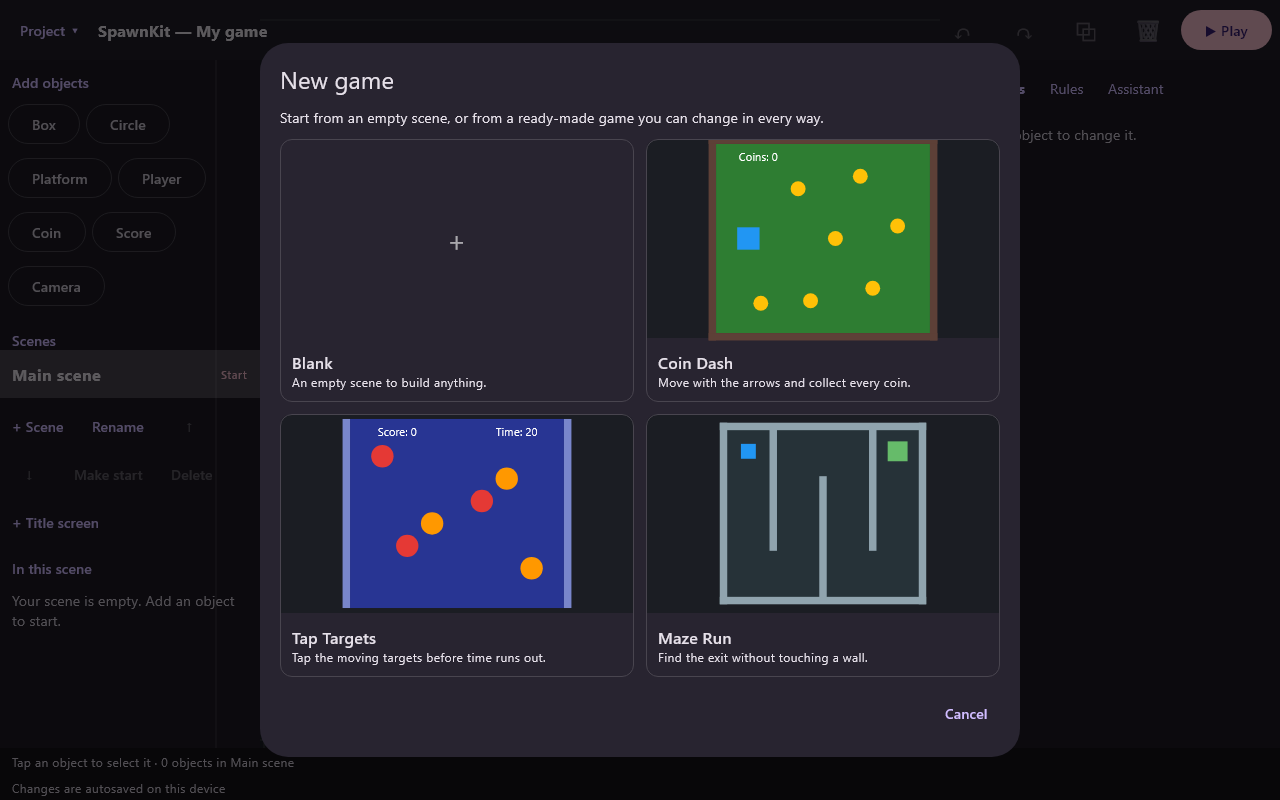
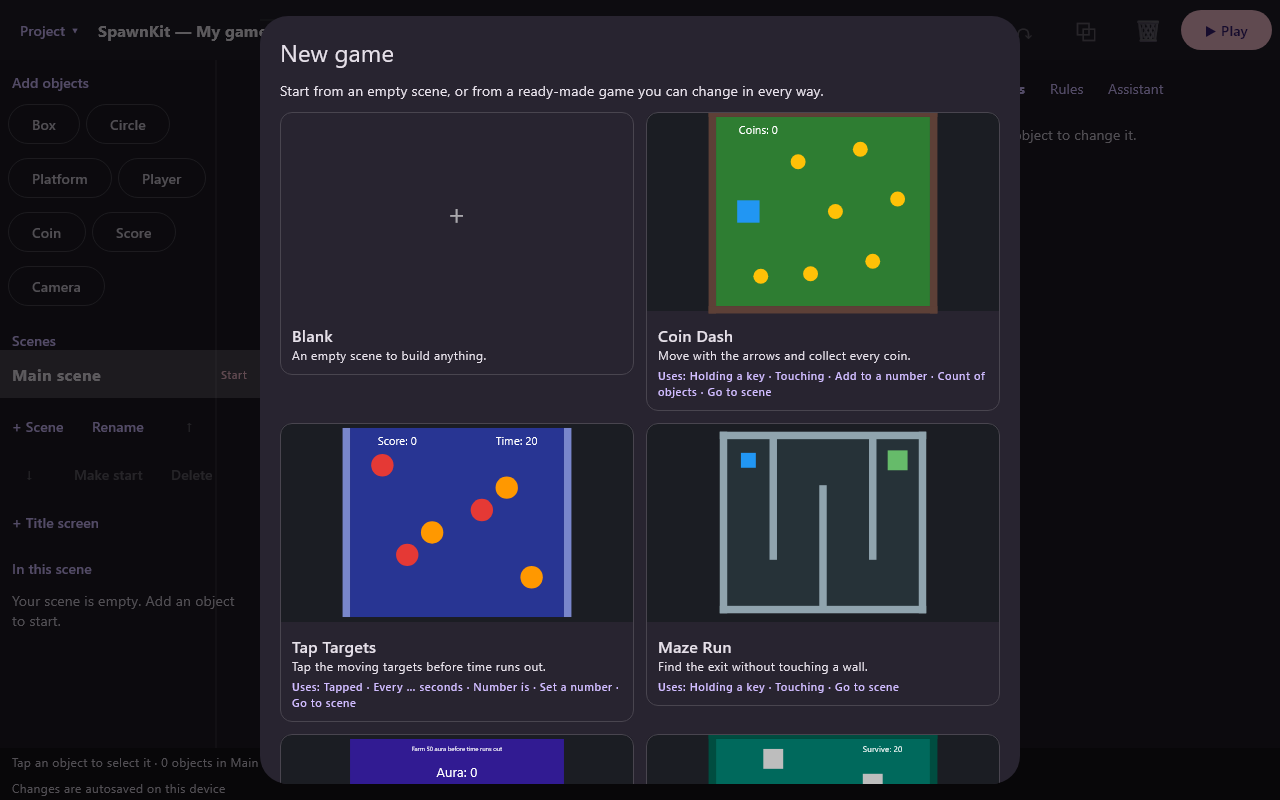
docs: brain-rot presets evidence; give Node tests 30 s (C10b)
Mocha's 2 s default failed the 20-second Tap Targets play test on JS
whenever the machine was busy; Node test runs now allow 30 s per test.
Emulator smoke for Aura Farmer, picker screenshots and docs.

diff --git a/app/shared/test@jvm/dev/spawnkit/app/presets/PresetRecipes.kt b/app/shared/test@jvm/dev/spawnkit/app/presets/PresetRecipes.kt
@@ -210,7 +210,10 @@ internal object PresetRecipes {
             set(timer, "graphics:text", "size", 0.6)
             rule(
                 timer,
-                Rule(Condition.EverySeconds(1), actions = listOf(Action.ChangeNumber(Target.Self, -1), Action.ShowNumber(Target.Self, "Time: "))),
+                Rule(
+                    Condition.EverySeconds(1),
+                    actions = listOf(Action.ChangeNumber(Target.Self, -1), Action.ShowNumber(Target.Self, "Time: ")),
+                ),
             )
 
             val max = endScene("MAX AURA", "MAX AURA!", "Main character energy unlocked.", "Farm again", farm, 0xFFAD1457)
@@ -264,8 +267,12 @@ internal object PresetRecipes {
             set(hero, "graphics:shape", "height", 0.7)
             set(hero, "graphics:shape", "color", 0xFFFFD600)
             keyMoves.forEach { (key, direction) -> rule(hero, Rule(Condition.KeyHeld(key), actions = listOf(Action.Move(direction, 4.0)))) }
-            listOf("edge-left" to Direction.Right, "edge-right" to Direction.Left, "edge-top" to Direction.Down, "edge-bottom" to Direction.Up)
-                .forEach { (edge, back) -> rule(hero, Rule(Condition.Touching(edge), actions = listOf(Action.Move(back, 4.0)))) }
+            listOf(
+                "edge-left" to Direction.Right,
+                "edge-right" to Direction.Left,
+                "edge-top" to Direction.Down,
+                "edge-bottom" to Direction.Up,
+            ).forEach { (edge, back) -> rule(hero, Rule(Condition.Touching(edge), actions = listOf(Action.Move(back, 4.0)))) }
 
             npc("Lane NPC 1", 2.0, -2.0, 3.0, horizontal = true, direction = 1)
             npc("Lane NPC 2", 3.0, 0.0, 3.5, horizontal = true, direction = 0)
@@ -428,7 +435,6 @@ private class Recipe(
         return copy
     }
 
-    /** A target that bounces between the side walls; its number is its direction (0 right, 1 left). Tapping scores. */
     /**
      * An NPC that bounces between the edges, along its row when [horizontal] or its column otherwise. Its number is its
      * direction: 0 is right or down, 1 is left or up.
@@ -453,6 +459,7 @@ private class Recipe(
         return id
     }
 
+    /** A target that bounces between the side walls; its number is its direction (0 right, 1 left). Tapping scores. */
     fun target(
         name: String,
         x: Double,

diff --git a/build-logic/convention/src/main/kotlin/KmpTargets.kt b/build-logic/convention/src/main/kotlin/KmpTargets.kt
@@ -21,14 +21,15 @@ internal fun Project.configureSpawnkitTargets(
     kmp.jvm()
     kmp.iosArm64()
     kmp.iosSimulatorArm64()
+    // Headless play tests simulate tens of seconds of game time; Mocha's 2 s default fails them on a busy machine.
     kmp.js {
         browser()
-        if (nodeTests) nodejs()
+        if (nodeTests) nodejs { testTask { useMocha { timeout = NODE_TEST_TIMEOUT } } }
     }
     @OptIn(ExperimentalWasmDsl::class)
     kmp.wasmJs {
         browser()
-        if (nodeTests) nodejs()
+        if (nodeTests) nodejs { testTask { useMocha { timeout = NODE_TEST_TIMEOUT } } }
     }
     if (nativeDesktop) {
         kmp.mingwX64()
@@ -47,3 +48,6 @@ internal fun Project.configureSpawnkitTargets(
         implementation(libs.findLibrary("kotlin-test").get())
     }
 }
+
+/** Per-test limit for Node.js test runs (Mocha). */
+private const val NODE_TEST_TIMEOUT = "30s"

diff --git a/tools/android-brainrot-smoke.py b/tools/android-brainrot-smoke.py
@@ -1,0 +1,156 @@
+"""Drives the SpawnKit builder on a running Android emulator with real taps (C10b): opens Project -> New game...,
+picks Aura Farmer, plays from its title screen, opens How it works and comes back, starts the game and taps the Aura
+Toaster. Checks each step by the colours on screen, since game text is drawn on the canvas.
+Usage: install the debug APK, then `python tools/android-brainrot-smoke.py <screenshot-dir>`. Needs Pillow."""
+import io
+import os
+import re
+import subprocess
+import sys
+import time
+import xml.etree.ElementTree as ET
+
+from PIL import Image
+
+ADB = os.path.join(os.environ["LOCALAPPDATA"], "Android", "Sdk", "platform-tools", "adb.exe")
+OUT = sys.argv[1]
+BUTTON = (0x43, 0xA0, 0x47)  # the title screen's Play button
+PLAYER = (0x21, 0x96, 0xF3)  # the Player preset
+HOW = (0x54, 0x6E, 0x7A)  # How it works and Back buttons
+EXPLAIN = (0x21, 0x21, 0x21)  # How it works background
+TOASTER = (0xFF, 0x70, 0x43)  # the Aura Toaster
+
+
+def adb(*args, binary=False):
+    result = subprocess.run([ADB, *args], capture_output=True, check=True)
+    return result.stdout if binary else result.stdout.decode("utf-8", "replace")
+
+
+def nodes():
+    found = []
+    for _ in range(8):
+        try:
+            adb("shell", "uiautomator", "dump", "/sdcard/ui.xml")
+            root = ET.fromstring(adb("exec-out", "cat", "/sdcard/ui.xml"))
+        except (ET.ParseError, subprocess.CalledProcessError):
+            # The app is still starting or animating; the dump is not ready yet.
+            time.sleep(1)
+            continue
+        found = []
+        for node in root.iter("node"):
+            bounds = re.fullmatch(r"\[(\d+),(\d+)\]\[(\d+),(\d+)\]", node.get("bounds", ""))
+            if bounds:
+                x1, y1, x2, y2 = map(int, bounds.groups())
+                found.append((node.get("text", ""), node.get("content-desc", ""), (x1 + x2) // 2, (y1 + y2) // 2, y1))
+        if any(text or desc for text, desc, *_ in found):
+            return found
+        time.sleep(0.3)
+    return found
+
+
+def find(label, nth=0, exact=True, below=0):
+    matches = [n for n in nodes() if n[4] >= below and ((n[0] == label or n[1] == label) if exact else (label in n[0] or label in n[1]))]
+    return matches[nth] if len(matches) > nth else None
+
+
+def tap(label, nth=0, exact=True, scroll=True, below=0):
+    for _ in range(8):
+        node = find(label, nth, exact, below)
+        if node:
+            adb("shell", "input", "tap", str(node[2]), str(node[3]))
+            time.sleep(0.8)
+            print("tap", label, node[2], node[3], flush=True)
+            return
+        if not scroll:
+            break
+        adb("shell", "input", "swipe", "540", "2250", "540", "1950", "300")
+        time.sleep(0.6)
+    raise SystemExit(f"Could not find '{label}'")
+
+
+def wait_for(text, seconds=30):
+    deadline = time.time() + seconds
+    while time.time() < deadline:
+        if find(text, exact=False):
+            return
+        time.sleep(1)
+    raise SystemExit(f"'{text}' did not appear")
+
+
+def screenshot(name):
+    data = adb("exec-out", "screencap", "-p", binary=True)
+    with open(os.path.join(OUT, name), "wb") as f:
+        f.write(data)
+    print("screenshot", name, flush=True)
+
+
+def pixels_like(name, color, tolerance=12):
+    """Centre of the pixels close to [color] in screenshot [name], and how many there are."""
+    image = Image.open(os.path.join(OUT, name)).convert("RGB")
+    width, height = image.size
+    xs, ys = [], []
+    data = image.load()
+    for y in range(0, height, 4):
+        for x in range(0, width, 4):
+            r, g, b = data[x, y]
+            if abs(r - color[0]) <= tolerance and abs(g - color[1]) <= tolerance and abs(b - color[2]) <= tolerance:
+                xs.append(x)
+                ys.append(y)
+    if not xs:
+        return None, 0
+    return (sum(xs) // len(xs), sum(ys) // len(ys)), len(xs)
+
+
+
+
+def tap_colour(name, colour, what):
+    centre, _ = pixels_like(name, colour)
+    if centre is None:
+        raise SystemExit(f"{what} is not on screen")
+    adb("shell", "input", "tap", str(centre[0]), str(centre[1]))
+    time.sleep(1.5)
+    return centre
+
+
+adb("shell", "am", "force-stop", "dev.spawnkit")
+adb("shell", "monkey", "-p", "dev.spawnkit", "-c", "android.intent.category.LAUNCHER", "1")
+for _ in range(15):
+    start_new = find("Start new", exact=False)
+    if start_new:
+        adb("shell", "input", "tap", str(start_new[2]), str(start_new[3]))
+        time.sleep(1)
+        print("tap Start new", flush=True)
+        break
+    if find("Score"):
+        break
+    time.sleep(1)
+else:
+    raise SystemExit("The builder did not finish opening")
+
+tap("Project", scroll=False)
+tap("New game\u2026", scroll=False)
+wait_for("Maze Run")
+time.sleep(1)
+tap("Aura Farmer")
+wait_for("Aura Farmer")
+time.sleep(1)
+tap("Play", exact=False, scroll=False)
+time.sleep(1.5)
+screenshot("android-aura-title.png")
+tap_colour("android-aura-title.png", HOW, "The How it works button")
+screenshot("android-aura-how.png")
+_, dark = pixels_like("android-aura-how.png", EXPLAIN)
+if dark < 1000:
+    raise SystemExit("How it works did not open")
+tap_colour("android-aura-how.png", HOW, "The Back button")
+screenshot("android-aura-back.png")
+tap_colour("android-aura-back.png", BUTTON, "The title's Play button")
+screenshot("android-aura-farm.png")
+toaster, _ = pixels_like("android-aura-farm.png", TOASTER)
+if toaster is None:
+    raise SystemExit("Play did not open the farm")
+for _ in range(12):
+    adb("shell", "input", "tap", str(toaster[0]), str(toaster[1]))
+time.sleep(0.5)
+screenshot("android-aura-tapped.png")
+print("OK: Aura Farmer opened from New game, explained itself, and the toaster took taps")

diff --git a/docs/project-persistence.md b/docs/project-persistence.md
@@ -19,17 +19,26 @@ have accessible descriptions. Some Android document providers append `.json` to 
 
 ### Preset games (C10)
 
-The picker lists Blank and three preset games, each with a picture of its game scene and a one-line pitch. Phones
-show one column; wider screens show two.
+The picker lists Blank and five preset games. Each has a picture of its game scene, a one-line pitch and the rule
+blocks it uses ("Uses: Tapped · Every … seconds · …", named as in the rule editor). Phones show one column; wider
+screens show two.
 
 | Preset | Game | Uses |
 |---|---|---|
 | Coin Dash | Move with the arrows and collect every coin; the last coin leads to "You win". | Key held, Touching, Count is |
 | Tap Targets | Tap the moving targets before the 20-second timer runs out. | Tapped, Every second, Number is |
 | Maze Run | Reach the exit; touching a wall restarts the maze. | Key held, Touching, Go to scene |
+| Aura Farmer (C10b) | Tap the Aura Toaster to farm 50 aura in 15 seconds: MAX AURA, or Negative aura. | Tapped, Add to a number, Number is, Every second |
+| NPC Dodge (C10b) | Survive 20 seconds while NPCs bounce along lanes and columns, or "You got NPC'd". | Key held, Touching, Number is, Set a number |
 
 - **Ordinary projects.** Each preset is a normal project file in `presets/<id>/project.json` with a title screen. It
   is embedded into the app by `core/presets` (`EmbeddedPresets`, listed by `GamePresets`).
+- **Guidance (C10b).** Every title screen has a **How it works** button. It opens a scene that explains, in short
+  lines, which object has which rule. The scene ends with one "Try this" change in yellow and a Back button to the
+  title. A test checks that every block a picker card lists is really used by that preset.
+- **Original characters.** Aura Farmer and NPC Dodge are brain-rot style on purpose: loud colours and meme-style
+  text. Their characters are original, with no third-party meme characters, because the contest requires work the
+  entrant owns.
 - **How they were made.** With the builder's own calls: palette presets, catalog operations, rule operations and
   "Add title screen". The recipes are in `app/shared/test@jvm/.../presets/PresetRecipes.kt`, and a test checks the
   files against them ([presets/README.md](../presets/README.md)).
@@ -45,6 +54,11 @@ show one column; wider screens show two.
   `tools/android-preset-smoke.py` used real taps: [the picker](media/android-presets-picker.png), then
   [Coin Dash's title screen playing](media/android-presets-title-play.png). Holding the on-screen Right arrow then
   [collected a coin](media/android-presets-coin.png).
+- **Evidence for C10b.**
+  - [Phone picker with all five presets](media/presets-picker-phone.png).
+  - `tools/android-brainrot-smoke.py` used real taps on the emulator. It opened Aura Farmer from New game, then
+    [How it works](media/android-aura-how.png) and Back.
+  - Twelve taps on the toaster then showed [Aura: 12](media/android-aura-tapped.png).
 
 New and Open ask before replacing unsaved changes. Save and continue, Discard changes, and Cancel are explicit.
 Cancelling a picker, opening a bad file, and a failed write keep the current project and its undo history. Opening a

diff --git a/PROGRESS.md b/PROGRESS.md
@@ -1,6 +1,28 @@
 # SpawnKit progress
 
-## Current checkpoint — live session recorder (2026-11-22)
+## Current checkpoint — C10b brain-rot presets and guidance (2026-11-22)
+
+- **Branch.** `feat/84-brainrot-presets` from `main`. Plan:
+  [C10b](docs/plans/2026-11-22-c10b-brainrot-presets.md).
+  [Issue #84](https://github.com/aioanei/spawnkit/issues/84). Owner: the templates show judges what the app can do
+  and guide users.
+- **Added.**
+  - **Aura Farmer:** a tap-fast clicker against a 15-second timer.
+  - **NPC Dodge:** survive 20 seconds while NPCs bounce along lanes and columns.
+  - Both use original characters. Each has a title, How it works, win and lose scenes.
+  - **Guidance in all five presets:** a How it works scene from every title (rules in short lines, one "Try this",
+    Back), and "Uses:" on each picker card listing the rule blocks the preset uses.
+- **Evidence.**
+  - `PresetGamesTest` 14, on every core target:
+    - scripted players win both new games, and idle players lose them;
+    - every How it works scene opens and returns;
+    - every listed block is used.
+  - `NewGamePickerTest` checks the Uses lines on phone and desktop.
+  - On the emulator, real taps opened Aura Farmer from New game and How it works. Twelve taps showed "Aura: 12".
+- **Next.** Write AI-first into the plan (owner, 2026-11-22: the AI builds whole games on our server, free, with a
+  $20 monthly cap; changes apply at once with Revert; nothing trimmed). Then C11 accounts with hosted AI.
+
+## Previous checkpoint — live session recorder (2026-11-22)
 
 - **Branch.** `feat/69-session-recorder`, stacked on C10 (PR #81). Part of C7
   ([#69](https://github.com/aioanei/spawnkit/issues/69)): recorded live sessions.

diff --git a/presets/README.md b/presets/README.md
@@ -8,6 +8,11 @@ project file, the same format the builder saves, embedded into the app by `core/
 | `coin-dash` | Coin Dash: move and collect every coin |
 | `tap-targets` | Tap Targets: tap the moving targets before time runs out |
 | `maze-run` | Maze Run: reach the exit without touching a wall |
+| `aura-farmer` | Aura Farmer: tap the Aura Toaster fast enough to farm 50 aura in 15 seconds |
+| `npc-dodge` | NPC Dodge: survive 20 seconds while NPCs ricochet around |
+
+Every preset's title screen has a How it works button. It opens a scene that explains the rules and suggests one
+change to try. `GamePresets` lists the rule blocks each preset uses, and a test checks they are really used.
 
 The files were made with the builder's own calls (object presets, catalog operations, rule operations and "Add
 title screen") in `app/shared/test@jvm/dev/spawnkit/app/presets/PresetRecipes.kt`. The recipe test checks that every

diff --git a/AGENTS.md b/AGENTS.md
@@ -28,7 +28,8 @@ authorized implementation of the R0–R9 plan, then clarified the product vision
 - **Done:** C5, project persistence (PR #57).
 - **Done:** K1 Kotlin Toolchain adoption, C6 Release Manager and Arcade, and C7a–C7b (catalogs and AI Studio core).
 - **Done:** C7c, the assistant UI; C9, title screens (scene list, Go to scene, Add title screen); C10, preset games
-  (New game picker with Coin Dash, Tap Targets and Maze Run).
+  (New game picker with Coin Dash, Tap Targets and Maze Run); C10b, brain-rot presets Aura Farmer and NPC Dodge, and How
+  it works guidance in every preset.
 - **Now:** C11 accounts. Then C12 test ads (owner decision
   2026-11-22, [design](docs/design/2026-11-22-title-screens-presets-accounts-ads.md),
   [ADR-0010](docs/adr/0010-accounts-on-ktor.md)), and C8 last, in the
